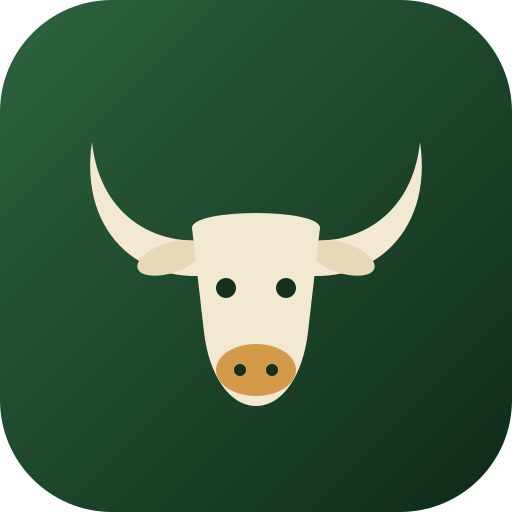
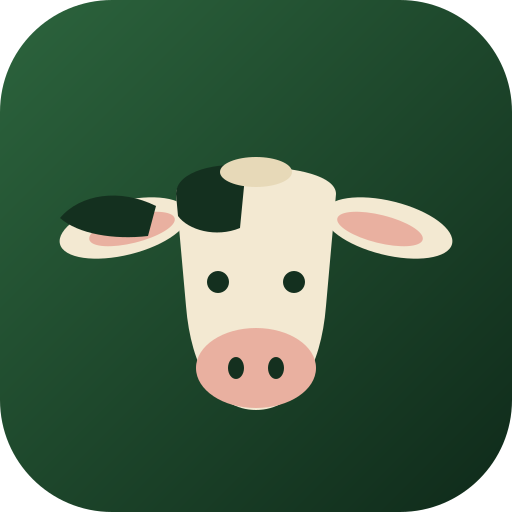
Novo ícone e logomarca: vaca sem chifres
Claude-Session: https://claude.ai/code/session_01FMutxVmL6PacfE3tAsER1s

Changed region(s): [[0.0938, 0.2812, 0.9062, 0.8125]]

diff --git a/src/components/Logo.tsx b/src/components/Logo.tsx
@@ -12,16 +12,17 @@ export function Logo({ className = 'size-8' }: { className?: string }) {
 export function LogoMark() {
   return (
     <g>
-      <path d="M92 150c8 78 70 108 126 96l10 34c-82 20-150-36-136-130z" fill="#f3e9d2" />
-      <path d="M420 150c-8 78-70 108-126 96l-10 34c82 20 150-36 136-130z" fill="#f3e9d2" />
-      <ellipse cx="170" cy="266" rx="34" ry="15" transform="rotate(-18 170 266)" fill="#e7d9b8" />
-      <ellipse cx="342" cy="266" rx="34" ry="15" transform="rotate(18 342 266)" fill="#e7d9b8" />
-      <path d="M192 236c0-20 128-20 128 0l-12 104c-5 44-26 74-52 74s-47-30-52-74z" fill="#f3e9d2" />
-      <circle cx="226" cy="296" r="10" fill="#14301f" />
-      <circle cx="286" cy="296" r="10" fill="#14301f" />
-      <ellipse cx="256" cy="378" rx="40" ry="26" fill="#d39a4a" />
-      <circle cx="240" cy="378" r="6" fill="#14301f" />
-      <circle cx="272" cy="378" r="6" fill="#14301f" />
+  <ellipse cx="124" cy="236" rx="66" ry="27" transform="rotate(-14 124 236)" fill="#f3e9d2"/>
+  <ellipse cx="388" cy="236" rx="66" ry="27" transform="rotate(14 388 236)" fill="#f3e9d2"/>
+  <ellipse cx="132" cy="237" rx="44" ry="14" transform="rotate(-14 132 237)" fill="#e9b0a0"/>
+  <ellipse cx="380" cy="237" rx="44" ry="14" transform="rotate(14 380 237)" fill="#e9b0a0"/>
+  <path d="M60 226c20-24 60-30 96-12l-8 30c-34 4-70-2-88-18z" fill="#14301f"/>
+  <path d="M176 202c0-36 160-36 160 0l-10 112c-5 62-30 104-70 104s-65-42-70-104z" fill="#f3e9d2"/>
+  <path d="M176 202c0-24 44-32 70-28l-6 62c-24 10-52 2-62-12z" fill="#14301f"/>
+  <ellipse cx="256" cy="180" rx="36" ry="15" fill="#e7d9b8"/>
+  <circle cx="218" cy="290" r="11" fill="#14301f"/><circle cx="294" cy="290" r="11" fill="#14301f"/>
+  <ellipse cx="256" cy="376" rx="60" ry="40" fill="#e9b0a0"/>
+  <ellipse cx="236" cy="376" rx="8" ry="11" fill="#14301f"/><ellipse cx="276" cy="376" rx="8" ry="11" fill="#14301f"/>
     </g>
   )
 }
